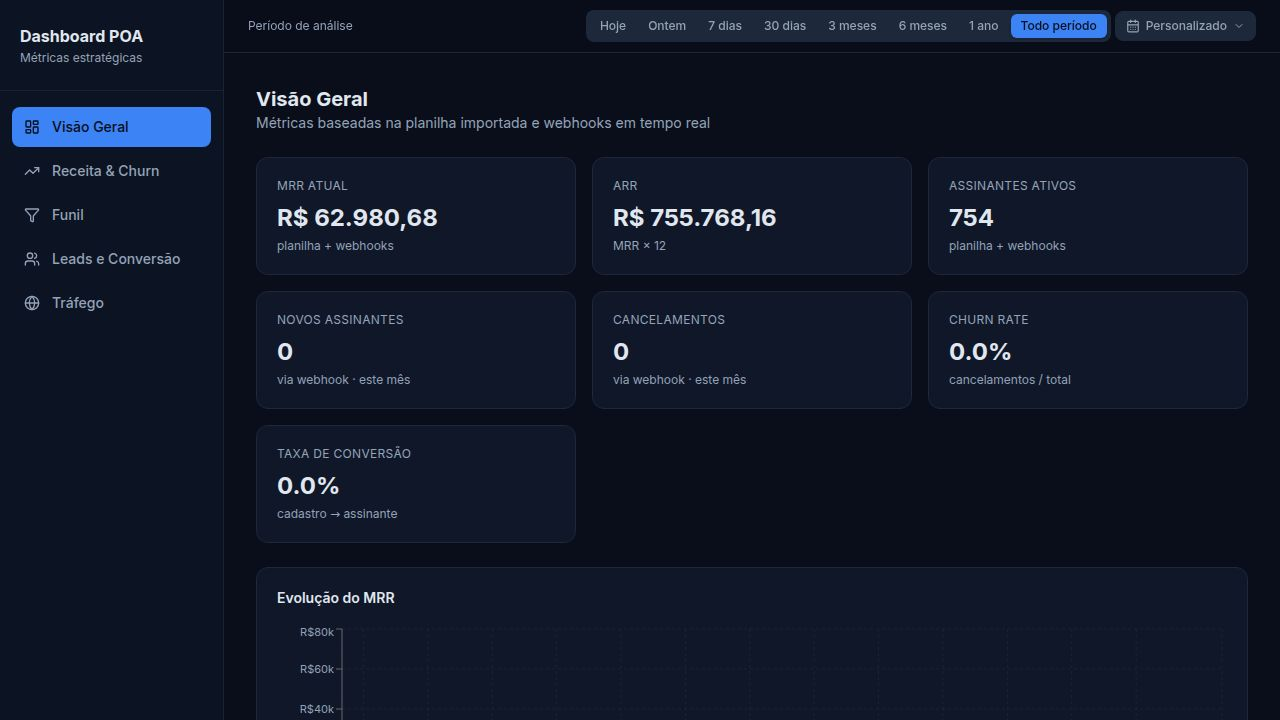
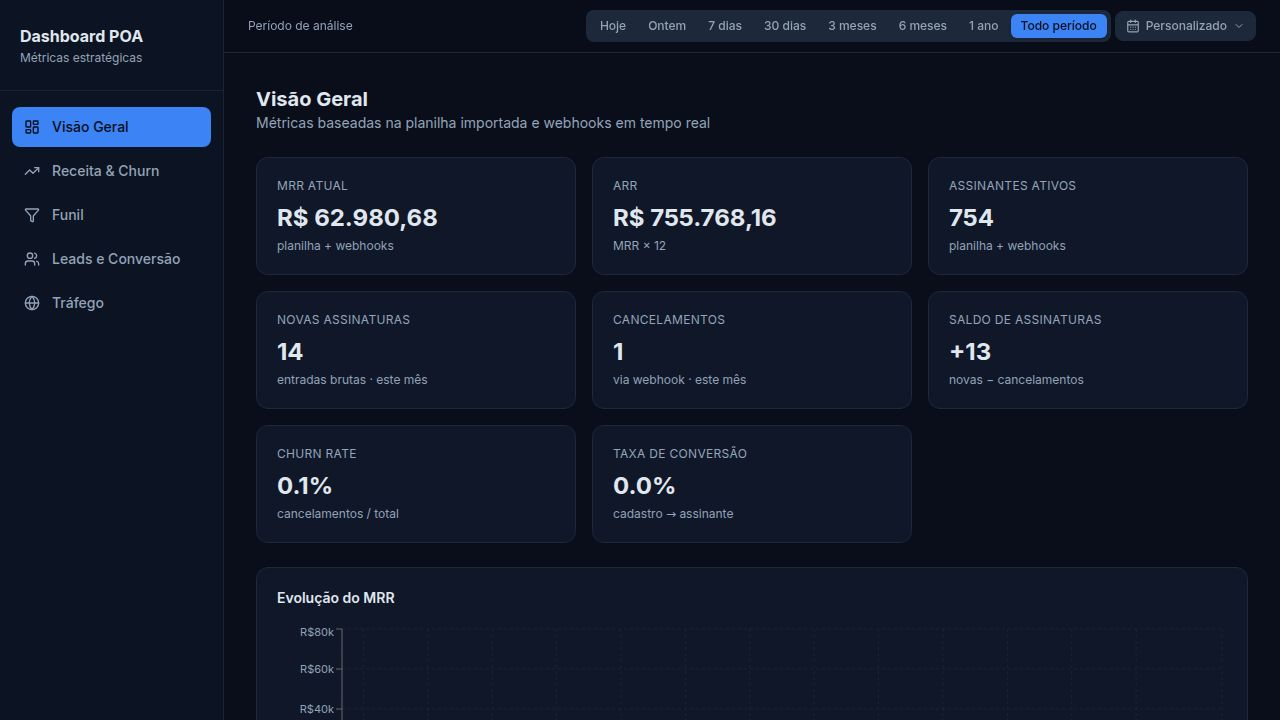
Add separate cards for new subscriptions, cancellations, and net change
Update the overview metrics endpoint to calculate and return gross new subscriptions, cancellations, and net new subscribers. Modify the Overview page to display these as three distinct KPI cards.

Replit-Commit-Author: Agent
Replit-Commit-Session-Id: 1dc96fea-091c-44fa-9b36-eb0fa8ade81c
Replit-Commit-Checkpoint-Type: full_checkpoint
Replit-Commit-Event-Id: 1967daa0-c402-4784-9b29-11a73f87059c
Replit-Commit-Screenshot-Url: https://storage.googleapis.com/screenshot-production-us-central1/f1076739-fb7f-4fb6-9d8d-a42dc68417ab/1dc96fea-091c-44fa-9b36-eb0fa8ade81c/yaTQBRS
Replit-Helium-Checkpoint-Created: true

diff --git a/artifacts/api-server/src/routes/metrics.ts b/artifacts/api-server/src/routes/metrics.ts
@@ -47,7 +47,7 @@ router.get("/overview", async (req: Request, res: Response) => {
       const now = new Date();
       const monthStart = new Date(now.getFullYear(), now.getMonth(), 1);
 
-      const NEW_SUB_EVENTS = ["PURCHASE_APPROVED", "REACTIVATED_PURCHASE"];
+      const monthStartMs = monthStart.getTime();
 
       const [activeRow, mrrRow, newRow, cancelRow] = await Promise.all([
         query<{ count: string }>(
@@ -61,12 +61,14 @@ router.get("/overview", async (req: Request, res: Response) => {
            ), 0) as sum
            FROM hotmart_subscriptions WHERE status = 'ACTIVE' AND price_value IS NOT NULL`
         ),
+        // Count gross new subscriptions using accession_date (same logic as Revenue tab)
         query<{ count: string }>(
-          `SELECT COUNT(DISTINCT subscriber_code) as count
-           FROM hotmart_webhook_events
-           WHERE event = ANY($1::text[])
-             AND received_at >= $2`,
-          [NEW_SUB_EVENTS, monthStart]
+          `SELECT COUNT(*) as count
+           FROM hotmart_subscriptions
+           WHERE accession_date IS NOT NULL
+             AND accession_date >= $1
+             AND original_event IN ('IMPORT_CSV', 'PURCHASE_APPROVED', 'REACTIVATED_PURCHASE')`,
+          [monthStartMs]
         ),
         query<{ count: string }>(
           `SELECT COUNT(DISTINCT subscriber_code) as count
@@ -82,6 +84,7 @@ router.get("/overview", async (req: Request, res: Response) => {
       const arr = Math.round(mrr * 12 * 100) / 100;
       const newSubscribers = parseInt(newRow[0]?.count ?? "0", 10);
       const cancellations = parseInt(cancelRow[0]?.count ?? "0", 10);
+      const netNewSubscribers = newSubscribers - cancellations;
       // start-of-month base = active_now + cancellations_this_month - new_subs_this_month
       const startOfMonthBase = activeSubscribers + cancellations - newSubscribers;
       const churnDenominator = startOfMonthBase + cancellations;
@@ -94,6 +97,7 @@ router.get("/overview", async (req: Request, res: Response) => {
         activeSubscribers,
         newSubscribers,
         cancellations,
+        netNewSubscribers,
         churnRate,
         conversionRate: 0,
       };

diff --git a/artifacts/poa-dashboard/src/pages/Overview.tsx b/artifacts/poa-dashboard/src/pages/Overview.tsx
@@ -86,9 +86,9 @@ export default function Overview() {
           errorMessage={errMsg}
         />
         <KPICard
-          title="Novos Assinantes"
+          title="Novas Assinaturas"
           value={d ? formatNumber(d.newSubscribers ?? 0) : "—"}
-          subtitle="via webhook · este mês"
+          subtitle="entradas brutas · este mês"
           loading={isLoading}
           error={!!hasError}
           errorMessage={errMsg}
@@ -101,6 +101,14 @@ export default function Overview() {
           error={!!hasError}
           errorMessage={errMsg}
           invertChange
+        />
+        <KPICard
+          title="Saldo de Assinaturas"
+          value={d ? (((d.netNewSubscribers ?? 0) >= 0 ? "+" : "") + formatNumber(d.netNewSubscribers ?? 0)) : "—"}
+          subtitle="novas − cancelamentos"
+          loading={isLoading}
+          error={!!hasError}
+          errorMessage={errMsg}
         />
         <KPICard
           title="Churn Rate"
